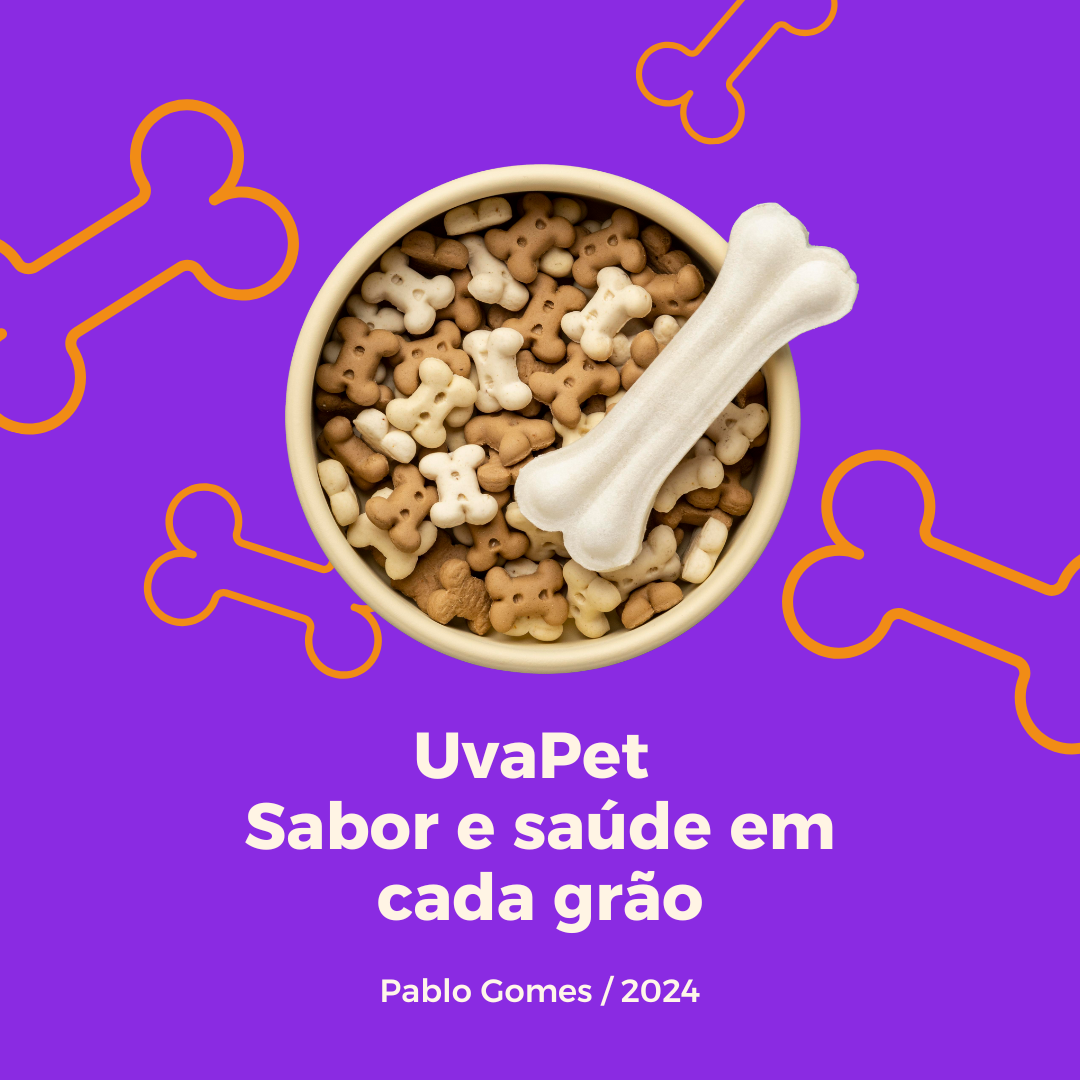
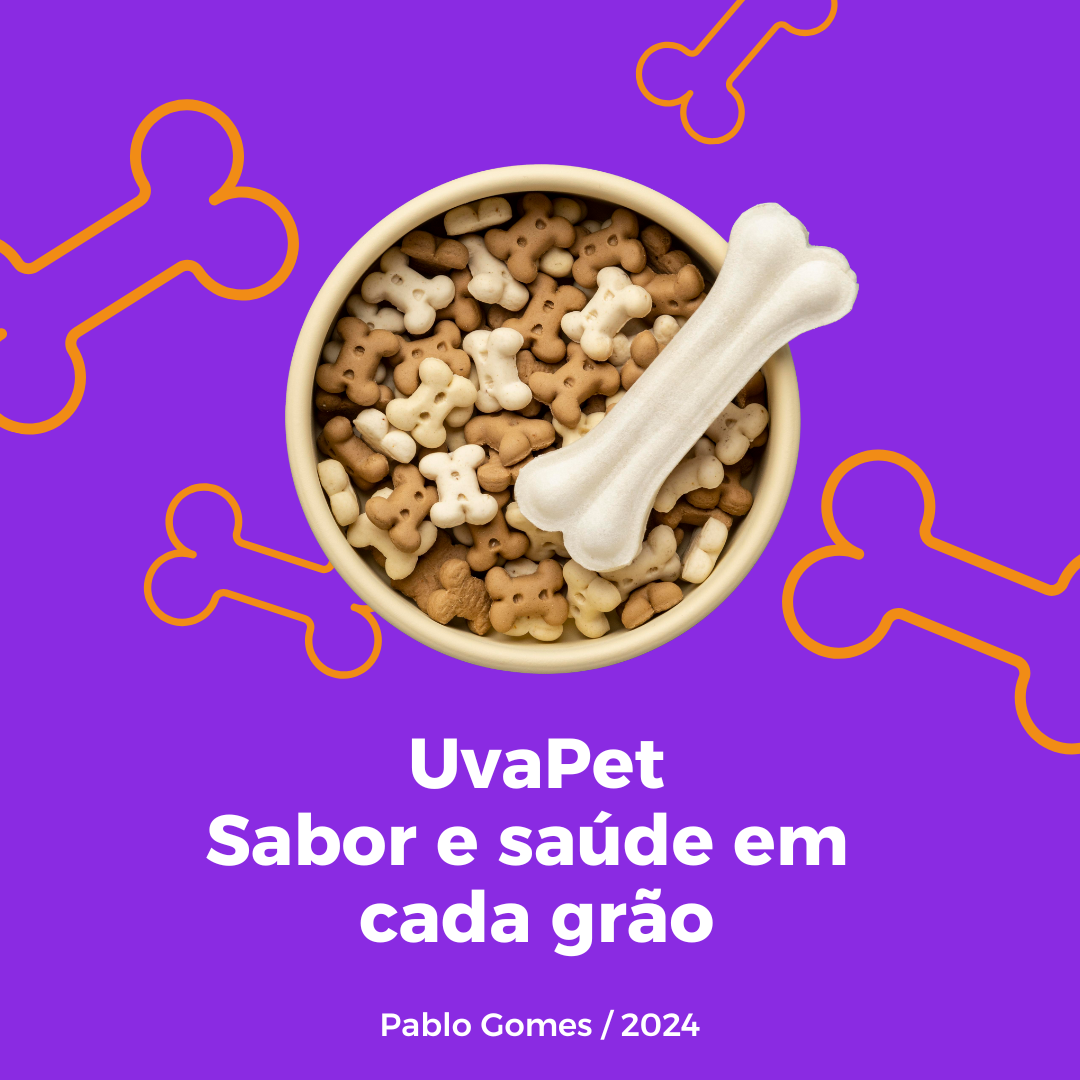
update site

Changed region(s): [[0.1833, 0.6722, 0.7944, 0.9778]]

diff --git a/style.css b/style.css
@@ -132,15 +132,19 @@ header {
     display: none;
     position: absolute;
     top: 34px;
+    right: 0px;
     border-radius: 5px;
     margin-top: 10px;
     padding: 10px;
     box-shadow: 0 4px 8px rgba(0, 0, 0, 0.2);
 }
+.opcoes, .opcoes2 {
+    font-size: 22px;
+}
 
 .icone2:hover .opcoes2 {
     display: block;
-    background-color: rgb(255, 123, 0);
+    background-color: #ff7b00;
 }
 a {
     color: rgb(255, 255, 255);
@@ -173,8 +177,8 @@ div.input {
     border-radius: 0px 0px;
     padding: 10px 10px 10px 10px;
     margin-top: -11px;
-    background-color:rgb(255, 123, 0);
-    width: 98.6%;
+    background-color:#ff7b00;
+    width: 98.5%;
     font-family: luckpet2;
 }
 
@@ -204,8 +208,8 @@ div.input {
 }
 
 .carousel img {
-    width: 60%;
-    height: 85vh;
+    width: 67%;
+    height: 95vh;
     border-radius: 30px;
     margin-top: 33px;
     cursor: pointer;
@@ -342,7 +346,7 @@ button {
     cursor: pointer;
     border-radius: 25px 25px;
     color: #48008bdc;
-    background-color: #6b6b6b2c;
+    background-color: #6b6b6b3f;
 }
 
 .botao-remover {
@@ -428,9 +432,81 @@ button {
     background-color: #0056b3;
 }
 
+#sectioncuri {
+    height: 70%;
+}
+
+.curi-h2 {
+    text-align: center;
+    font-family: luckpet1;
+    font-size: 35px;
+    padding: 30px;
+    padding-bottom: 80px;
+}
+.paidiv {
+    display: flex;
+    margin: auto;
+    justify-content: center;
+    text-align: center;
+    background-attachment: fixed;
+}
+.paidiv2 {
+    text-align: center;
+    margin-left: -30px;
+    margin-top: -335px;
+    justify-content: center;
+    display: flex;
+    
+    font-family: luckpet2;
+    font-size: 17px;
+}
+.p6 {
+width: 420px;
+}
+
+.div05 {
+background-image: url(img/anusha-barwa-ppKcYi1CXcI-unsplash.jpg);
+background-size: 399px;
+background-repeat: no-repeat;
+background-position: center;
+z-index: 1;
+
+    padding: 50px;
+    margin-right: 20px;
+    width: 200px;
+    height: 200px;
+    background-color: #4CAF50;
+}
+.div06 {
+background-image: url(img/cedric-vt-IuJc2qh2TcA-unsplash.jpg);
+background-size: 299px;
+background-repeat: no-repeat;
+z-index: 1;
+
+    padding: 50px;
+    width: 200px;
+    height: 200px;
+    background-color: #534caf;
+}
+.div07 {
+background-image: url(img/charlesdeluvio-DziZIYOGAHc-unsplash.jpg);
+background-size: 299px;
+background-repeat: no-repeat;
+z-index: 1;
+
+    margin-left: 20px;
+    
+    padding: 50px;
+    width: 200px;
+    height: 200px;
+}
+.div07:hover, .div06:hover, .div05:hover {
+   transform: translateY(95px);
+}
+
 .section03 {
     width: 100%;
-    height: 500px;
+    height: 540px;
     text-align: center;
     background-color: rgba(0, 172, 100, 0.637) ;
 }
@@ -438,15 +514,15 @@ button {
     text-align: center;
     font-family: luckpet1;
     font-size: 35px;
-    padding-top: 20px;
+    padding-top: 50px;
     padding-bottom: 30px;
-    color: rgba(72, 0, 139, 0.863);
+    color: #48008bdc;
 }
 .planos {
     display: flex;
     font-family:'Franklin Gothic Medium', 'Arial Narrow', Arial, sans-serif;
     font-size: 18px;
-   padding: 20px;
+   padding: 30px;
    gap: 30px;
    color: rgba(72, 0, 139, 0.863);
 }

diff --git a/media query-principal.css b/media query-principal.css
@@ -55,6 +55,7 @@
         top: 20px;
         z-index: 2010;
         right: -18px;
+        font-size: 17px;
     }
     #pesquisa {
         margin-top: 56px;
@@ -220,7 +221,7 @@
 
     .notificacao {
     position: fixed;
-    top: 53px;
+    top: 85px;
     right: 20px;
     background-color: #4CAF50;
     color: white;
@@ -380,7 +381,7 @@
         border-radius: 0px 0px;
     }
     #div1 {
-        width: 96.7%;
+        width: 96%;
         font-size: 13px;
         border-radius: 0px 0px;
         margin-top: 13px
@@ -524,6 +525,10 @@
         border-radius: 25px 25px;
         color: #48008bdc;
         background-color: #6b6b6b2c;
+    }
+
+    .notificacao {
+        top: 120px;
     }
 
     .modal {
@@ -807,6 +812,10 @@
         background-color: #6b6b6b2c;
     }
 
+    .notificacao {
+        top: 120px;
+    }
+
     .modal {
         margin-top: 30px;
         display: none; /* Oculto por padrão */
@@ -1081,6 +1090,10 @@
         background-color: #6b6b6b2c;
     }
 
+    .notificacao {
+        top: 120px;
+    }
+
     .modal {
         margin-top: 30px;
         display: none; /* Oculto por padrão */
@@ -1109,16 +1122,16 @@
         color: rgba(72, 0, 139, 0.863);
     }
     .planos {
-        display: block;
+        display: inline;
         font-family:'Franklin Gothic Medium', 'Arial Narrow', Arial, sans-serif;
-        font-size: 19px;
-       padding: 33px;
+        font-size: 21px;
        color: rgba(72, 0, 139, 0.863);
     }
     .plano1 {
         width: 88vw;
         height: 300px;
         padding: 10px;
+        margin-left: 33px;
         padding-bottom: 30px;
         margin-bottom: 20px;
         background-color: rgb(255, 255, 255);
@@ -1128,6 +1141,7 @@
         width: 88vw;
         height: 300px;
         padding: 10px;
+        margin-left: 33px;
         padding-bottom: 30px;
         margin-bottom: 20px;
         background-color: rgb(255, 255, 255);
@@ -1137,6 +1151,7 @@
         width: 88vw;
         height: 300px;
         padding: 10px;
+        margin-left: 33px;
         padding-bottom: 30px;
         background-color: rgb(255, 255, 255);
         border-radius: 15px 15px 15px;
@@ -1144,7 +1159,8 @@
     .butplano {
         font-family: luckpet2;
         font-size: 16px;
-        width: 140px;
+        margin-top: -3px;
+        width: 170px;
         height: 50px;
         padding: 15px 20px 30px 20px;
         color: white;

diff --git a/index.html b/index.html
@@ -196,6 +196,26 @@
 </div>
     </section>
 
+   <section id="sectioncuri">
+    <h2 class="curi-h2">Descubra mais sobre seu amigo!</h2>
+
+    <div class="paidiv">
+        <div class="div05"></div>
+
+        <div class="div06"></div>
+
+        <div class="div07"></div>
+    </div>
+    
+     <div class="paidiv2">
+        <div style="width: 250px; margin-left: 26px;"><p><span style="color: #0c6600; font-size: 28px;">Sabia?</span> <br>Gatos podem correr até 50km/h enquanto <br> Cães chegam a 45km/h</p></div>
+
+        <div class="p6"><p><span style="color: rgb(0, 153, 255); font-size: 28px;">Sabia?</span><br>Gatos podem pular até <br> seis vezes a altura <br> do seu corpo</p></div>
+
+        <div><p><span style="color: red; font-size: 28px;">Sabia?</span> <br>Cachorros tem um olfato até<br> 10.000 vezes mais fortes<br> que o nosso!</p></div>
+     </div> 
+</section>
+
     <section class="section03">
         <h2 class="titu13">Bem-Estar Completo para <br> seu Companheiro</h2>
         